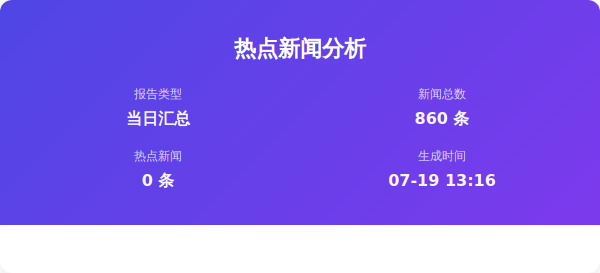
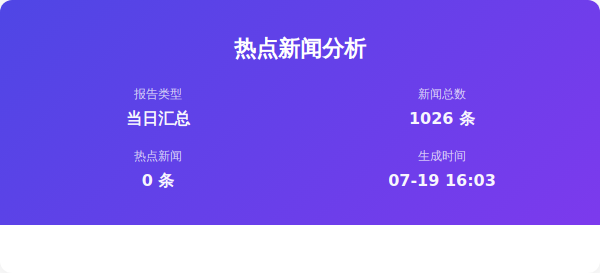
Auto update by GitHub Actions at Sun Jul 19 16:03:50 CST 2026

Changed region(s): [[0.66, 0.4103, 0.81, 0.4689], [0.75, 0.6447, 0.84, 0.674]]

diff --git a/output/2026年07月19日/html/当日汇总.html b/output/2026年07月19日/html/当日汇总.html
@@ -357,7 +357,7 @@
                     </div>
                     <div class="info-item">
                         <span class="info-label">新闻总数</span>
-                        <span class="info-value">860 条</span>
+                        <span class="info-value">1026 条</span>
                     </div>
                     <div class="info-item">
                         <span class="info-label">热点新闻</span>
@@ -365,7 +365,7 @@
                     </div>
                     <div class="info-item">
                         <span class="info-label">生成时间</span>
-                        <span class="info-value">07-19 13:16</span>
+                        <span class="info-value">07-19 16:03</span>
                     </div>
                 </div>
             </div>